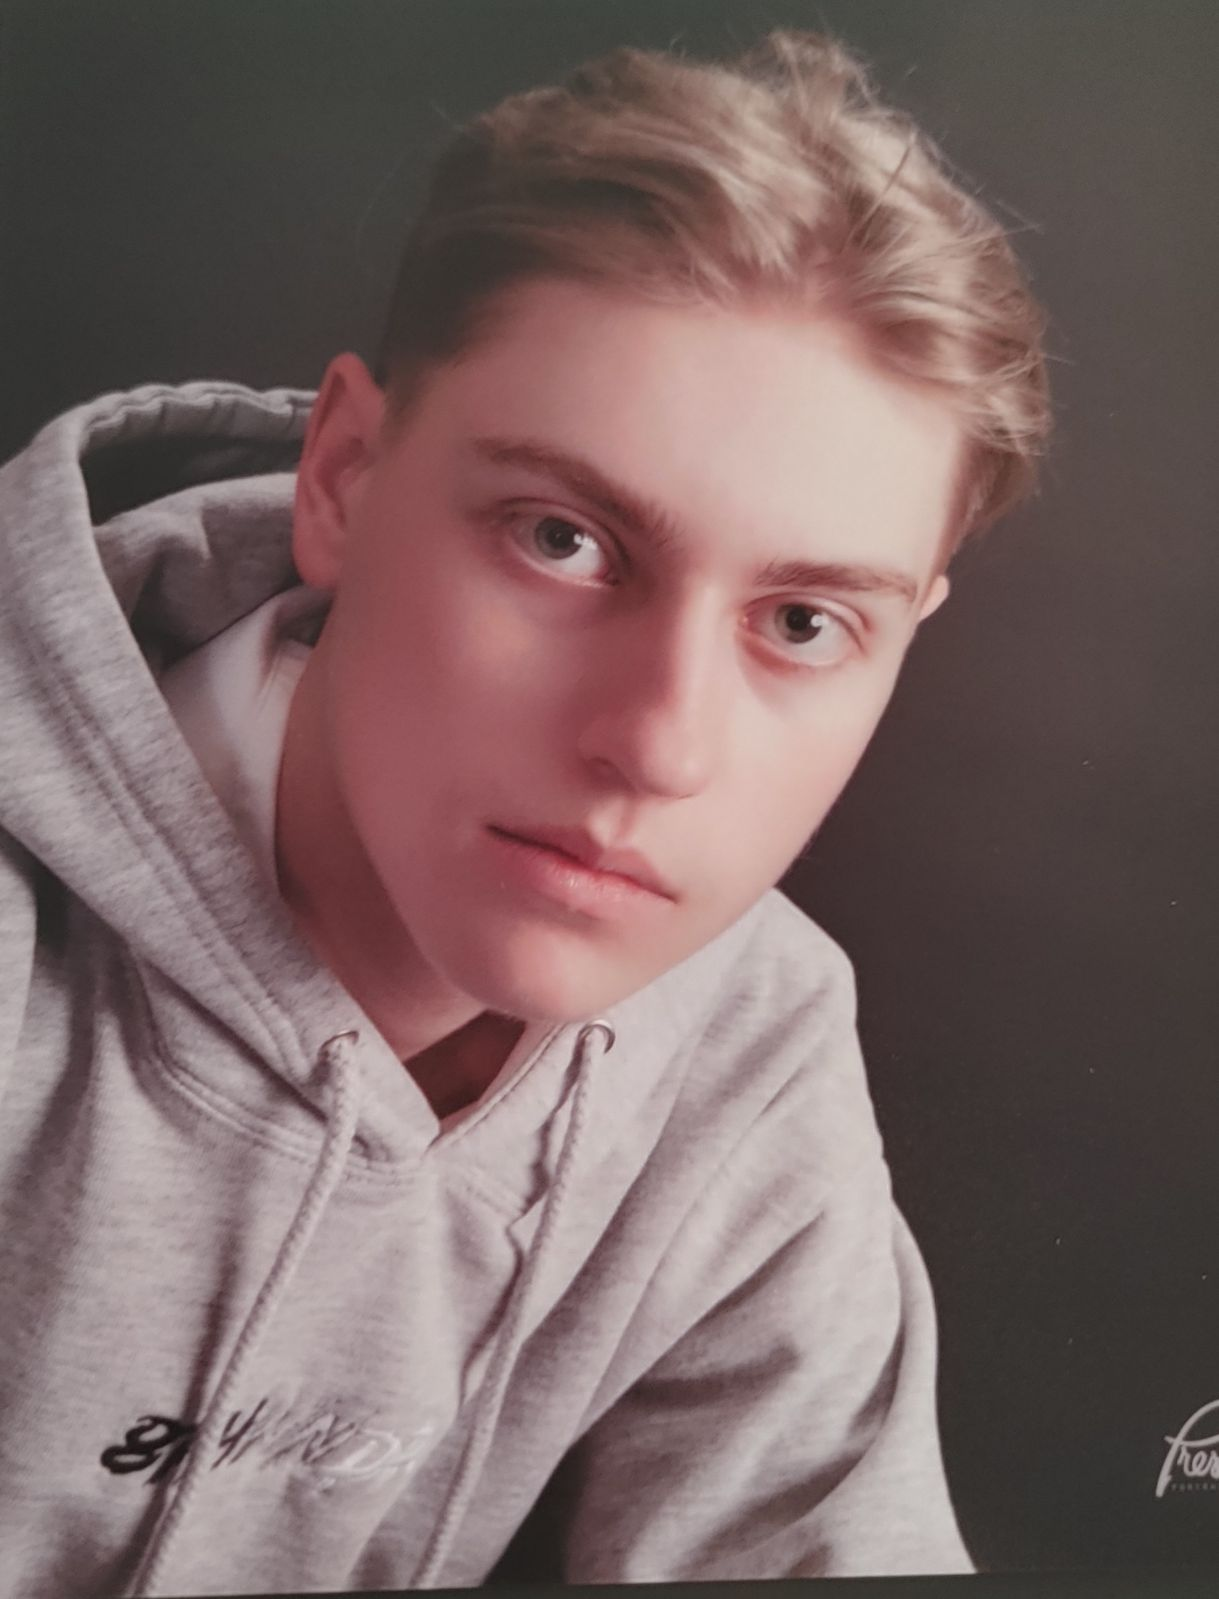
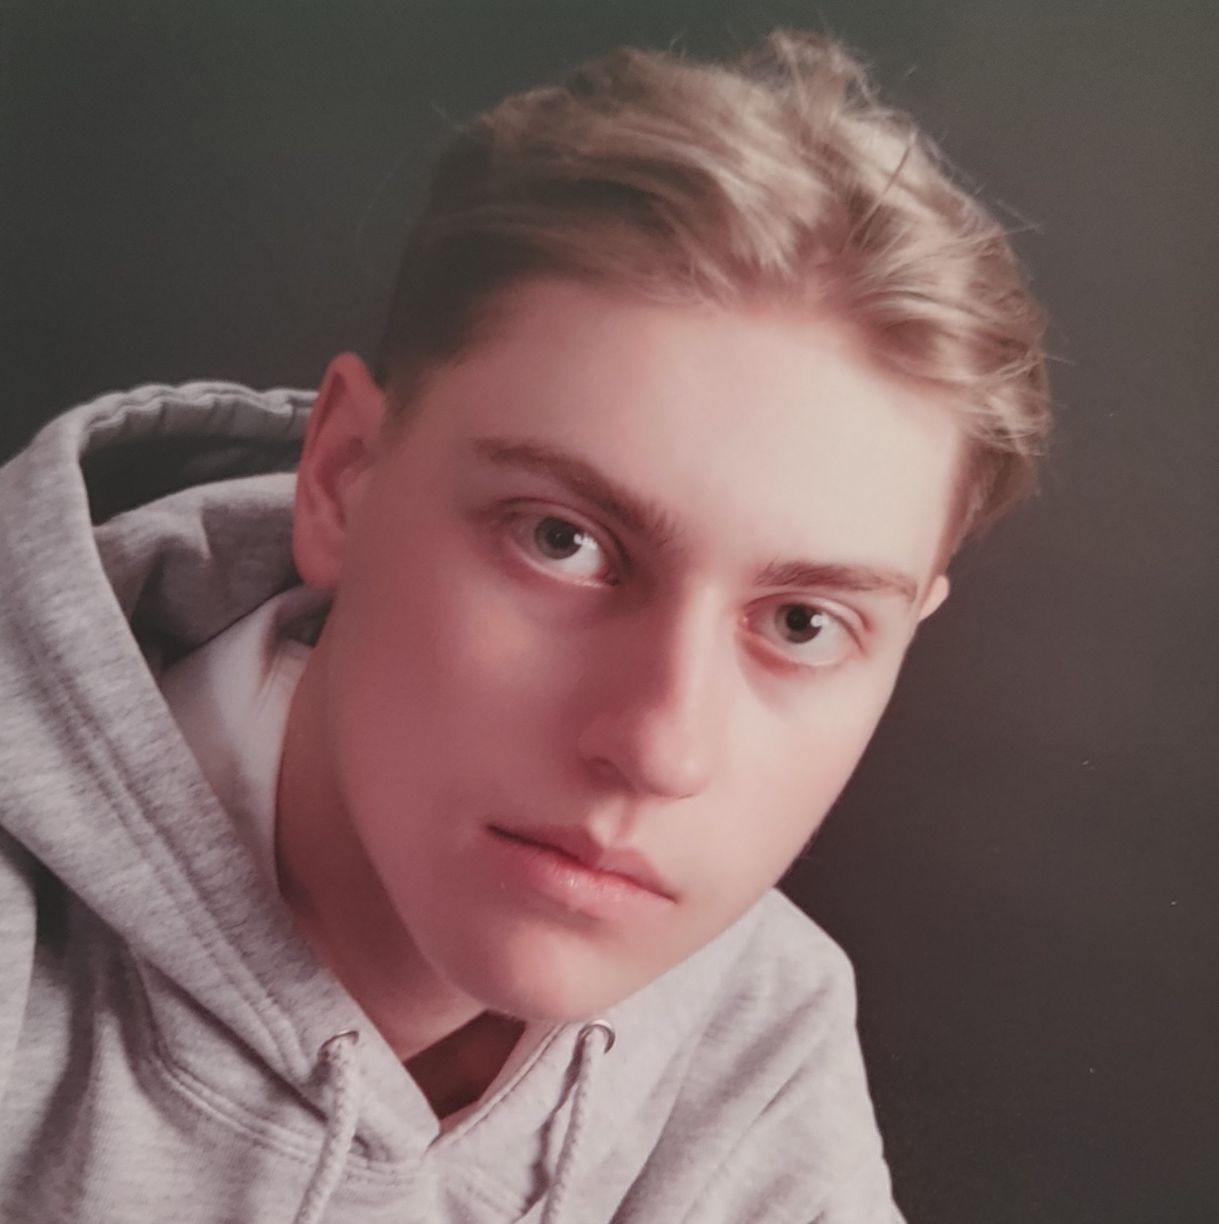
Feat: Added customization to the header and footer of the resume.

diff --git a/styles.css b/styles.css
@@ -1,0 +1,54 @@
+body{
+    width: 100%;
+    margin: 0;
+}
+
+/* The header-footer class used to make changes 
+to the header & footer of the resume.*/
+.header-footer{
+    text-align: center;
+    background-color: #827099;
+    padding-top: 1rem;
+    padding-bottom: 1rem;
+}
+
+.header-footer h1{
+    color:#E4E1F4;
+    text-decoration: underline;
+}
+
+
+.header-footer ul{
+    
+    padding-left: 0;
+    margin-left: 0;
+    
+}
+
+.header-footer ul li{
+    list-style: none;
+    color: #E4E1F4;
+}
+
+.header-footer ul li a{
+    text-decoration: none;
+    color: #E4E1F4;
+}
+
+.header-footer ul li a:hover{
+    text-decoration: underline;
+    color: #ada6d5;
+}
+
+.header-footer h2{
+    color: #E4E1F4;
+    text-decoration: underline;
+}
+
+/* Customization of the resume photo.*/
+#header img{
+    border-radius: 200px;
+    width: 15%;
+    border: solid 4px #E4E1F4;
+}
+

diff --git a/index.html b/index.html
@@ -4,11 +4,13 @@
     <meta charset="UTF-8">
     <meta name="viewport" content="width=device-width, initial-scale=1.0">
     <title>Resume - Hudson Drozdowski</title>
+    <link rel="stylesheet" href="styles.css">
 </head>
+
 <body>
-    <header>
+    <header class= "header-footer" id = "header">
         <h1>Hudson Drozdowski - Resume</h1>
-        <img src="images/ResumePhoto.jpeg" alt="A professional photo of the resume creator." width="304" height="400">
+        <img src="images/ResumePhoto.jpeg" alt="A professional photo of the resume creator.">
     </header>
 
     <nav>
@@ -90,7 +92,7 @@
 
     </main>
 
-    <footer id="#contact_info">
+    <footer class="header-footer" id="#contact_info">
         <h2>Contact Information</h2>
         <ul>
             <li>Phone Number: 204-805-4906</li>

diff --git a/DESIGN_GUIDELINES.MD b/DESIGN_GUIDELINES.MD
@@ -2,10 +2,10 @@
 
 ## Color Pallet 
 
-Alabaster Grey = EAEAEA
-Lavender = E4E1F4
-vintage lavender = 827099
-Dusk Blue = 3A4869
+Alabaster Grey = EAEAEA,
+Lavender = E4E1F4,
+vintage lavender = 827099,
+Dusk Blue = 3A4869,
 
 ## Font
 
